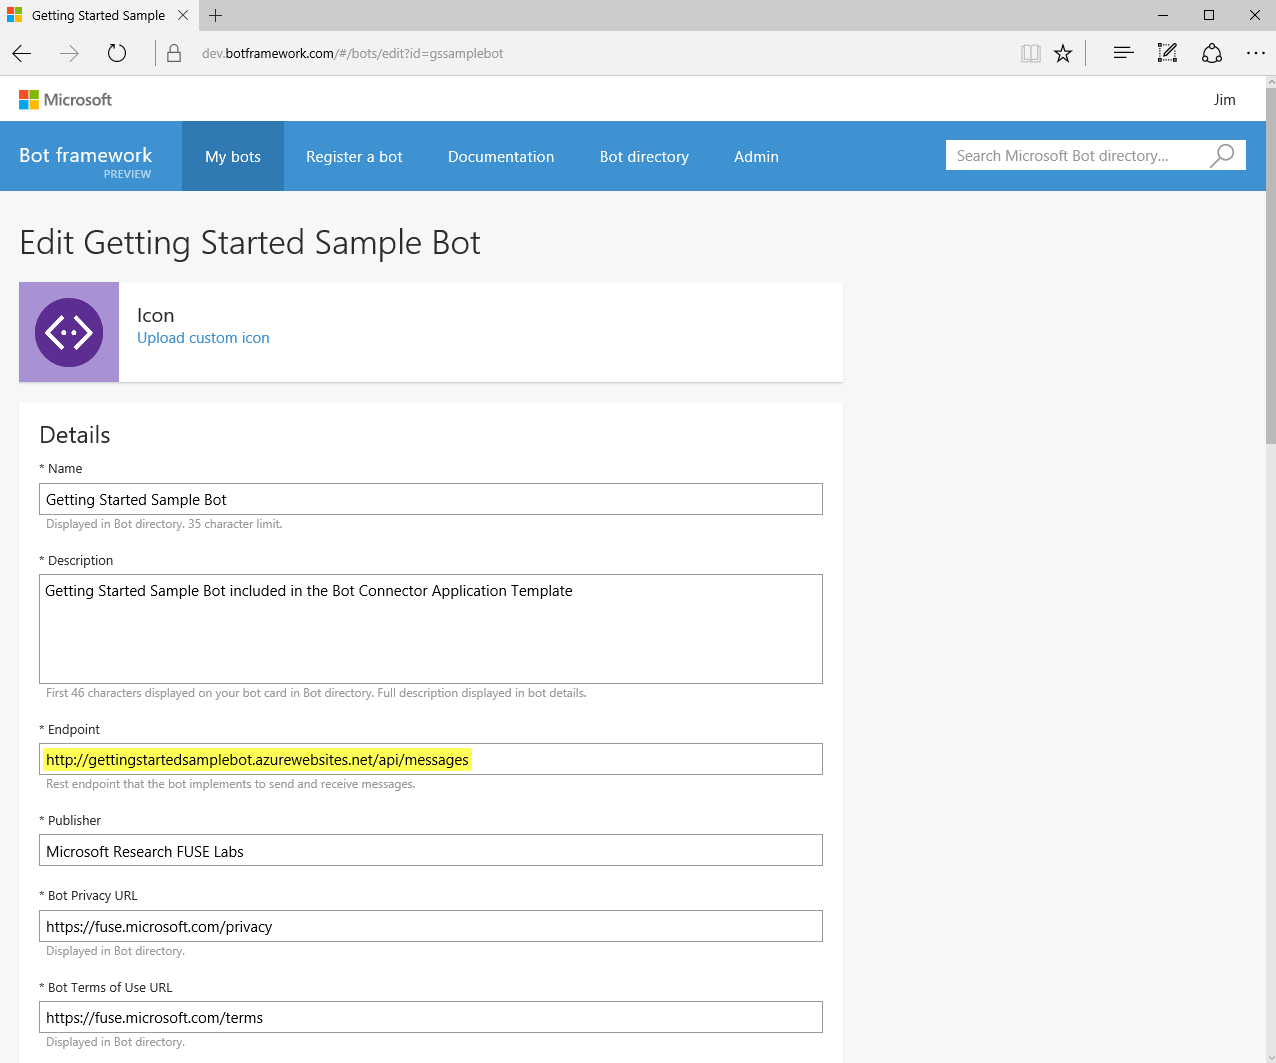
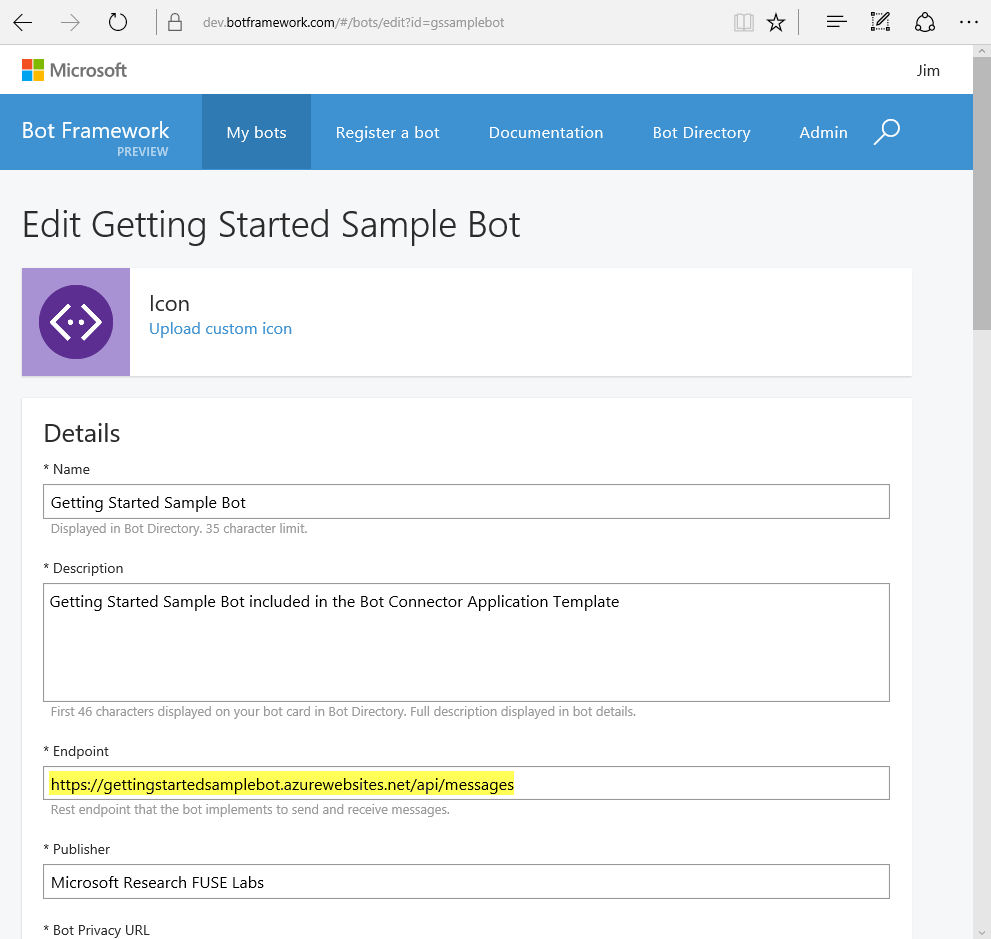
Adding HTTPS

Changed region(s): [[0.0, 0.2162, 0.6357, 1.0], [0.0, 0.0, 1.0, 0.4324]]

diff --git a/Connector/getting-started.md b/Connector/getting-started.md
@@ -158,7 +158,7 @@ The next step in the Azure App Service publishing process is to create your App 
 
 ![Click new to create a "New..." Azure App Service](/images/connector-getstarted-publish-app-service.png)
 
-The Create App Service dialog will be displayed, fill in the details as appropriate
+The Create App Service dialog will be displayed, fill in the details as appropriate.  Make sure to choose "Web App" from the Change Type drop down in the top right instead of "API App" (which is the default).
 
 ![Give your App Service a name, then click New App Service Plan to define one](/images/connector-getstarted-publish-app-service-create.png)
 
@@ -190,7 +190,7 @@ Registering your Bot tells the Connector how to call your Bot's web service. Not
 	
 2. Register an agent
 	
-3. Click the "Register a Bot" button and fill out the form. Many of the fields on this form can be changed later. Use a the endpoint generated from your Azure deployment, and don't forget that when using the Bot Application tempalate you'll need to extend the URL you pasted in with the path to the endpoint at /API/Messages. Save your changes by hitting "Create" at the bottom of the form.
+3. Click the "Register a Bot" button and fill out the form. Many of the fields on this form can be changed later. Use a the endpoint generated from your Azure deployment, and don't forget that when using the Bot Application tempalate you'll need to extend the URL you pasted in with the path to the endpoint at /API/Messages.  You should also prefix your URL with HTTPS instead of HTTP; Azure will take care of providing HTTPS support on your bot. Save your changes by hitting "Create" at the bottom of the form.
 
 ![Register a bot](/images/connector-getstarted-register-agent.png)
 
